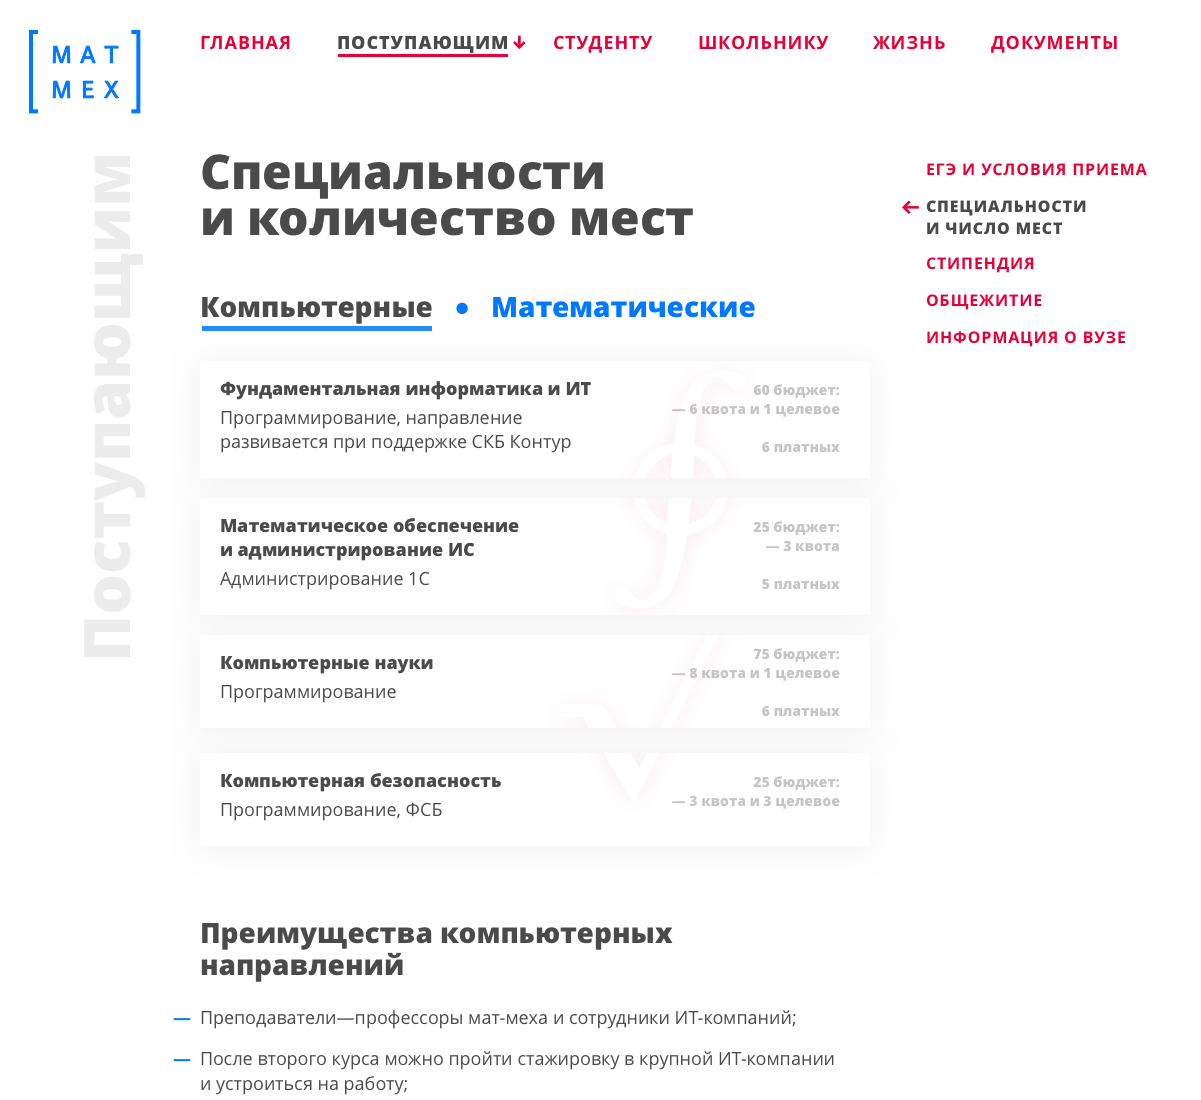
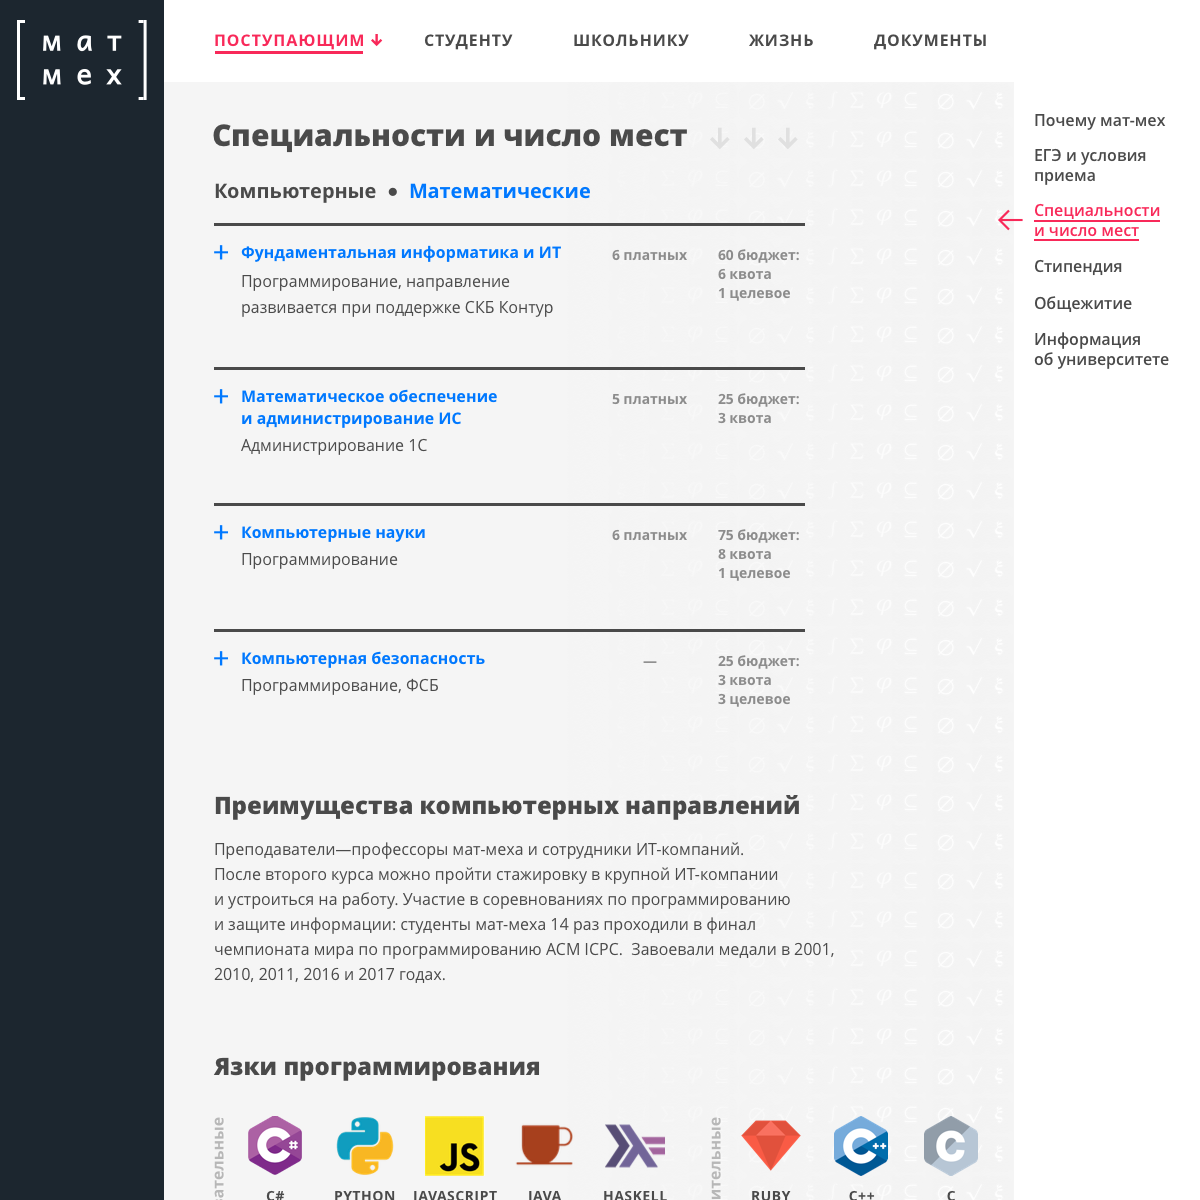
Новый скриншот мат-меха

diff --git a/index.html b/index.html
@@ -130,9 +130,8 @@
     <h2>Сайт математико-механического факультета</h2>
     <p>
       Совместо с Никитой Коноваловым сейчас переделываем <a href="http://imkn.urfu.ru/">cайт нашего факультета.</a>
-      Он визуально устарел, на нем не обновляется информация. Мы хотим сделать его
-      современнее, а именно брутальнее и взять обновление информации на себя.
-      Это первые наброски нового логотипа и стиля.
+      Он визуально устарел, информация не обновляется.
+      Мы создаем новый стиль, логотип. Переписываем сайт, чтобы было проще обновлять информацию.
     </p>
     <img src="img/mat-meh.png" alt="Сайт мат-меха" class="individual">
   </main>
